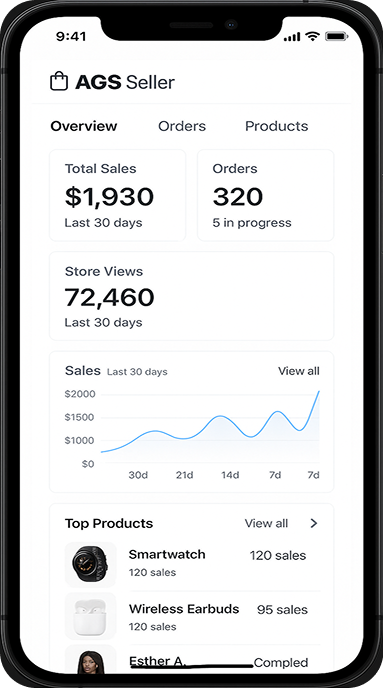
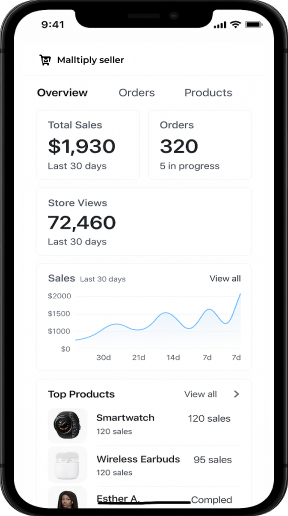
Rebrand from AGS to Malltiply

diff --git a/src/app/seller/page.jsx b/src/app/seller/page.jsx
@@ -18,15 +18,15 @@ export default function SellerIndexPage() {
         {/* Left Side: Logo + Text */}
         <div className="flex items-center space-x-2">
           <Image
-            src="/ags-logo2.svg"
-            alt="AGS Logo"
-            width={70}
-            height={27}
+            src="/malltiply-logo-seller.svg"
+            alt="Malltiply Logo"
+            width={32}
+            height={29}
             priority
           />
           <div>
-            <p className="text-white text-[16px] font-semibold font-[Montserrat] leading-none">
-              AGS
+            <p className="text-white text-[16px] mb-[2px] font-semibold font-[Montserrat] leading-none">
+              Malltiply
             </p>
             <p className="text-[#C7C5C5] text-[12px] font-bold font-[Montserrat] leading-none">
               Seller Center
@@ -66,12 +66,12 @@ export default function SellerIndexPage() {
             <div className="absolute top-[2px] left-[16px] flex flex-col space-y-[16px] max-w-[180px]">
                 {/* Main Heading */}
                 <p className="text-white text-[12px] font-black font-[Montserrat] leading-[32px]">
-                Start Selling to thousands<br />of buyers on AGS
+                Start Selling to thousands<br />of buyers on Malltiply
                 </p>
 
                 {/* Subheading */}
                 <p className="text-white text-[8px] font-medium font-[Montserrat] leading-tight">
-                Join AGS and grow faster
+                Join Malltiply and grow faster
                 </p>
 
                 {/* Sign Up Button */}
@@ -127,7 +127,7 @@ export default function SellerIndexPage() {
         {/* Why Sell on AGS Section */}
         <div className="my-[24px] px-[16px] sm:px-[12px] xs:px-[8px]">
           <h2 className="text-[24px] text-center font-semibold font-[Inter] text-[#18331B]">
-            Why Sell on AGS?
+            Why Sell on Malltiply?
           </h2>
 
           {/* Cards Grid */}
@@ -150,7 +150,7 @@ export default function SellerIndexPage() {
 
               {/* Paragraph */}
               <p className="mt-[12px] text-[8px] font-[Montserrat] text-[#303030] leading-[1.2] px-[8px]">
-                AGS puts your products in front of real buyers across Nigeria and beyond.
+                Malltiply puts your products in front of real buyers across Nigeria and beyond.
                 Whether you sell kaftans, accessories, or handmade footwear, we help you stand out – no tech skills needed. Just upload, and start selling.
               </p>
             </div>
@@ -170,7 +170,7 @@ export default function SellerIndexPage() {
               </p>
 
               <p className="mt-[12px] text-[8px] font-[Montserrat] text-[#303030] leading-[1.2] px-[8px]">
-                No complicated dashboards. AGS is built for sellers in our community - simple tools, fast uploads, and a support team that speaks your language when you need help.
+                No complicated dashboards. Malltiply is built for sellers in our community - simple tools, fast uploads, and a support team that speaks your language when you need help.
               </p>
             </div>
 
@@ -206,7 +206,7 @@ export default function SellerIndexPage() {
               </p>
 
               <p className="mt-[12px] text-[8px] font-[Montserrat] text-[#303030] leading-[1.2] px-[8px]">
-                From first sale to loyal customers, AGS gives you insights and tools to grow steadily. Premium sellers also enjoy priority exposure and special campaigns to boost visibility.
+                From first sale to loyal customers, Malltiply gives you insights and tools to grow steadily. Premium sellers also enjoy priority exposure and special campaigns to boost visibility.
               </p>
             </div>
           </div>

diff --git a/src/app/seller/components/FaqDropdown.jsx b/src/app/seller/components/FaqDropdown.jsx
@@ -6,24 +6,24 @@ export default function FaqDropdown() {
 
   const faqData = [
     {
-      question: "How much does it cost to sell on AGS?",
+      question: "How much does it cost to sell on Malltiply?",
       answer:
-        "Selling on AGS is completely free for normal sellers — no signup fees or hidden charges. Premium sellers enjoy advanced store features for a small fee, and we only charge a minimal commission on each successful sale.",
+        "Selling on Malltiply is completely free for normal sellers — no signup fees or hidden charges. Premium sellers enjoy advanced store features for a small fee, and we only charge a minimal commission on each successful sale.",
     },
     {
-      question: "Can I customize my store on AGS?",
+      question: "Can I customize my store on Malltiply?",
       answer:
-        "Yes, premium sellers on AGS can fully customize their stores — from logos and banners to brand colors and product displays. Normal sellers have a standard layout but still enjoy a professional store presence.",
+        "Yes, premium sellers on Malltiply can fully customize their stores — from logos and banners to brand colors and product displays. Normal sellers have a standard layout but still enjoy a professional store presence.",
     },
     {
-      question: "How do I get paid after selling on AGS?",
+      question: "How do I get paid after selling on Malltiply?",
       answer:
         "Payments are made securely through your preferred payout method. Once a buyer completes an order, your funds are processed, and you receive your earnings after a small commission is deducted.",
     },
     {
       question: "What support do I get if I run into problems?",
       answer:
-        "AGS provides 24/7 seller support, including live chat and help center resources. Whether you face technical issues or need sales advice, our team is here to guide you every step of the way.",
+        "Malltiply provides 24/7 seller support, including live chat and help center resources. Whether you face technical issues or need sales advice, our team is here to guide you every step of the way.",
     },
   ];
 

diff --git a/src/app/layout.jsx b/src/app/layout.jsx
@@ -17,19 +17,19 @@ const inter = Inter({
 })
 
 export const metadata = {
-  title: "AGS Marketplace",
-  description: "AGS is a curated e-commerce built for rising fashion and lifestyle brands. Offering buyers a trusted space to discover quality, handcrafted and exclusive products. With premium storefronts, secure payments, and real customer support, AGS makes shopping feel personal and selling feel professional - all from one simple, elegant platform.",
+  title: "Malltiply",
+  description: "Malltiply is a curated e-commerce built for rising fashion and lifestyle brands. Offering buyers a trusted space to discover quality, handcrafted and exclusive products. With premium storefronts, secure payments, and real customer support, Malltiply makes shopping feel personal and selling feel professional - all from one simple, elegant platform.",
   icons: {
-    icon: "/ags-logo.svg",
-    shortcut: "/ags-logo.svg",
-    apple: "/ags-logo.svg",
+    icon: "/malltiply-logo.svg?v=2",
+    shortcut: "/malltiply-logo.svg?v=2",
+    apple: "/malltiply-logo.svg?v=2",
   }
 }
 
 export default function RootLayout({ children }) {
   return (
     <html lang="en" className={`${montserrat.variable} ${inter.variable}`}>
-      <body className="bg-[#f8f9fa] pt-[48px]">
+      <body className="bg-[#f8f9fa] ">
         <ReduxProvider>
           <MobileOnlyWrapper>
             <LayoutWrapper>

diff --git a/src/app/components/Footer.jsx b/src/app/components/Footer.jsx
@@ -29,9 +29,9 @@ export default function Footer() {
               </summary>
               <ul className="bg-[#F2F2F2] px-[16px] py-[8px] space-y-[8px] font-[inter] font-normal text-[12px] text-black">
                 <li>
-                  About AGS{" "} <br/>
+                  About Malltiply{" "} <br/>
                   <span className="font-light text-black/50">
-                    AGS - Your Market Place. Your Hustle. Your rules.
+                    Malltiply - Your Market Place. Your Hustle. Your rules.
                   </span>
                 </li>
                 <li>Careers</li>
@@ -88,9 +88,9 @@ export default function Footer() {
               <ul className="bg-[#F2F2F2] px-[16px] py-[8px] space-y-[8px] font-[inter] font-normal text-[12px] text-black">
                 <li>Support center & FAQ</li>
                 <li>Safety center</li>
-                <li>AGS purchase protection</li>
+                <li>Malltiply purchase protection</li>
                 <li>Sitemap</li>
-                <li>Partner with AGS</li>
+                <li>Partner with Malltiply</li>
               </ul>
             </details>
           </div>

diff --git a/src/app/components/Navbar.jsx b/src/app/components/Navbar.jsx
@@ -15,7 +15,7 @@ export default function Navbar() {
   const [showSearch, setShowSearch] = useState(false)
 
   return (
-    <nav className="w-full flex flex-col px-[16px] relative">
+    <nav className="w-full flex flex-col px-[16px] pt-[48px] relative">
       {/* Top row - Hamburger, Logo, Icons */}
       <div className="flex items-center justify-between w-full">
         {/* Left - Hamburger & Logo */}
@@ -29,8 +29,7 @@ export default function Navbar() {
             />
           </Link>
           <Link className="flex items-center gap-[4px]" href="/">
-            <span className="font-montserrat font-bold text-[32px] text-[#474545]">AGS</span>
-            <Image src="/ags-logo.svg" alt="AGS Logo" width={32} height={32} />
+            <Image src="/malltiply-logo.svg" alt="Malltiply Logo" width={32} height={32} />
           </Link>
         </div>
 

diff --git a/src/app/seller/components/MenuModal.jsx b/src/app/seller/components/MenuModal.jsx
@@ -26,8 +26,8 @@ export default function MenuModal({ onClose }) {
       {/* Logo and AGS Text */}
       <div className="flex flex-col items-center">
         <div className="flex items-center gap-[4px] mb-[32px]">
-          <span className="text-[32px] font-bold text-white font-montserrat">AGS</span>
-          <img src="/ags-logo-white.svg" width={32} height={32} alt="AGS Logo" />
+          <span className="text-[16px] font-bold text-white font-montserrat">Malltiply</span>
+          <img src="/malltiply-logo-white.svg" width={32} height={32} alt="Malltiply Logo" />
         </div>
 
         {/* Navigation Links */}

diff --git a/src/app/seller/signin/page.jsx b/src/app/seller/signin/page.jsx
@@ -56,7 +56,7 @@ export default function SellerSignInPage() {
 
       {/* Title */}
       <h1 className="text-[24px] text-center font-[Inter] font-semibold text-[#000000]">Sign in</h1>
-      <p className="text-[14px] text-center font-[Inter] font-medium text-black/50 mt-[8px]">Welcome back to AGS Seller Center</p>
+      <p className="text-[14px] text-center font-[Inter] font-medium text-black/50 mt-[8px]">Welcome back to Malltiply Seller Center</p>
 
       <form onSubmit={handleSubmit} className="space-y-4">
         {/* Email */}

diff --git a/src/app/seller/components/SuccessModal.jsx b/src/app/seller/components/SuccessModal.jsx
@@ -14,7 +14,7 @@ export default function SuccessModal({ onClose }) {
         <CheckCircle size={48} className="text-green-600 mx-auto mb-2" />
         <h2 className="text-lg font-semibold text-[#000000] mb-1">Signup Successful 🎉</h2>
         <p className="text-sm text-[#000000]/50 mb-4">
-          You’re now part of AGS. Sign in to start selling and growing.
+          You’re now part of Malltiply. Sign in to start selling and growing.
         </p>
         <button
           onClick={() => router.push('/seller/signin')}

diff --git a/src/app/components/MobileWrapper.jsx b/src/app/components/MobileWrapper.jsx
@@ -20,7 +20,7 @@ export default function MobileOnlyWrapper({ children }) {
         <div>
           <h2 className="text-xl font-semibold mb-2">Mobile Only</h2>
           <p className="text-gray-600">
-            AGS is currently available only for mobile devices. Please switch to a mobile screen to continue.
+            Malltiply is currently available only for mobile devices. Please switch to a mobile screen to continue.
           </p>
         </div>
       </div>

diff --git a/src/app/seller/normal/signup/page.jsx b/src/app/seller/normal/signup/page.jsx
@@ -279,7 +279,7 @@ export default function SellerSignUpNormal() {
 
           {/* Line 1: Sign in */}
           <p className="text-[12px] font-[Inter] font-semibold text-black text-center">
-            Already have an AGS seller account?{' '}
+            Already have an Malltiply seller account?{' '}
             <a href="/seller/normal/signin" className="text-[#005770]">
               Sign in
             </a>

diff --git a/src/app/components/SignUpLayout.jsx b/src/app/components/SignUpLayout.jsx
@@ -82,8 +82,8 @@ export default function SignUpLayout({ onClose, onSwitchToSignIn  }) {
         </button>
         <div className="flex items-center justify-center gap-[8px] mb-[8px]">
           <Image
-            src="/ags-logo.svg"
-            alt="AGS Logo"
+            src="/malltiply-logo.svg"
+            alt="Malltiply Logo"
             width={96}
             height={32}
             priority

diff --git a/src/app/components/SignInLayout.jsx b/src/app/components/SignInLayout.jsx
@@ -59,7 +59,7 @@ export default function SignInLayout({ onClose }) {
 
         {/* Logo */}
         <div className="flex items-center justify-center gap-[8px] mb-[8px]">
-          <Image src="/ags-logo.svg" alt="AGS Logo" width={96} height={32} />
+          <Image src="/malltiply-logo.svg" alt="Malltiply Logo" width={96} height={32} />
         </div>
 
         {/* Lock notice */}
